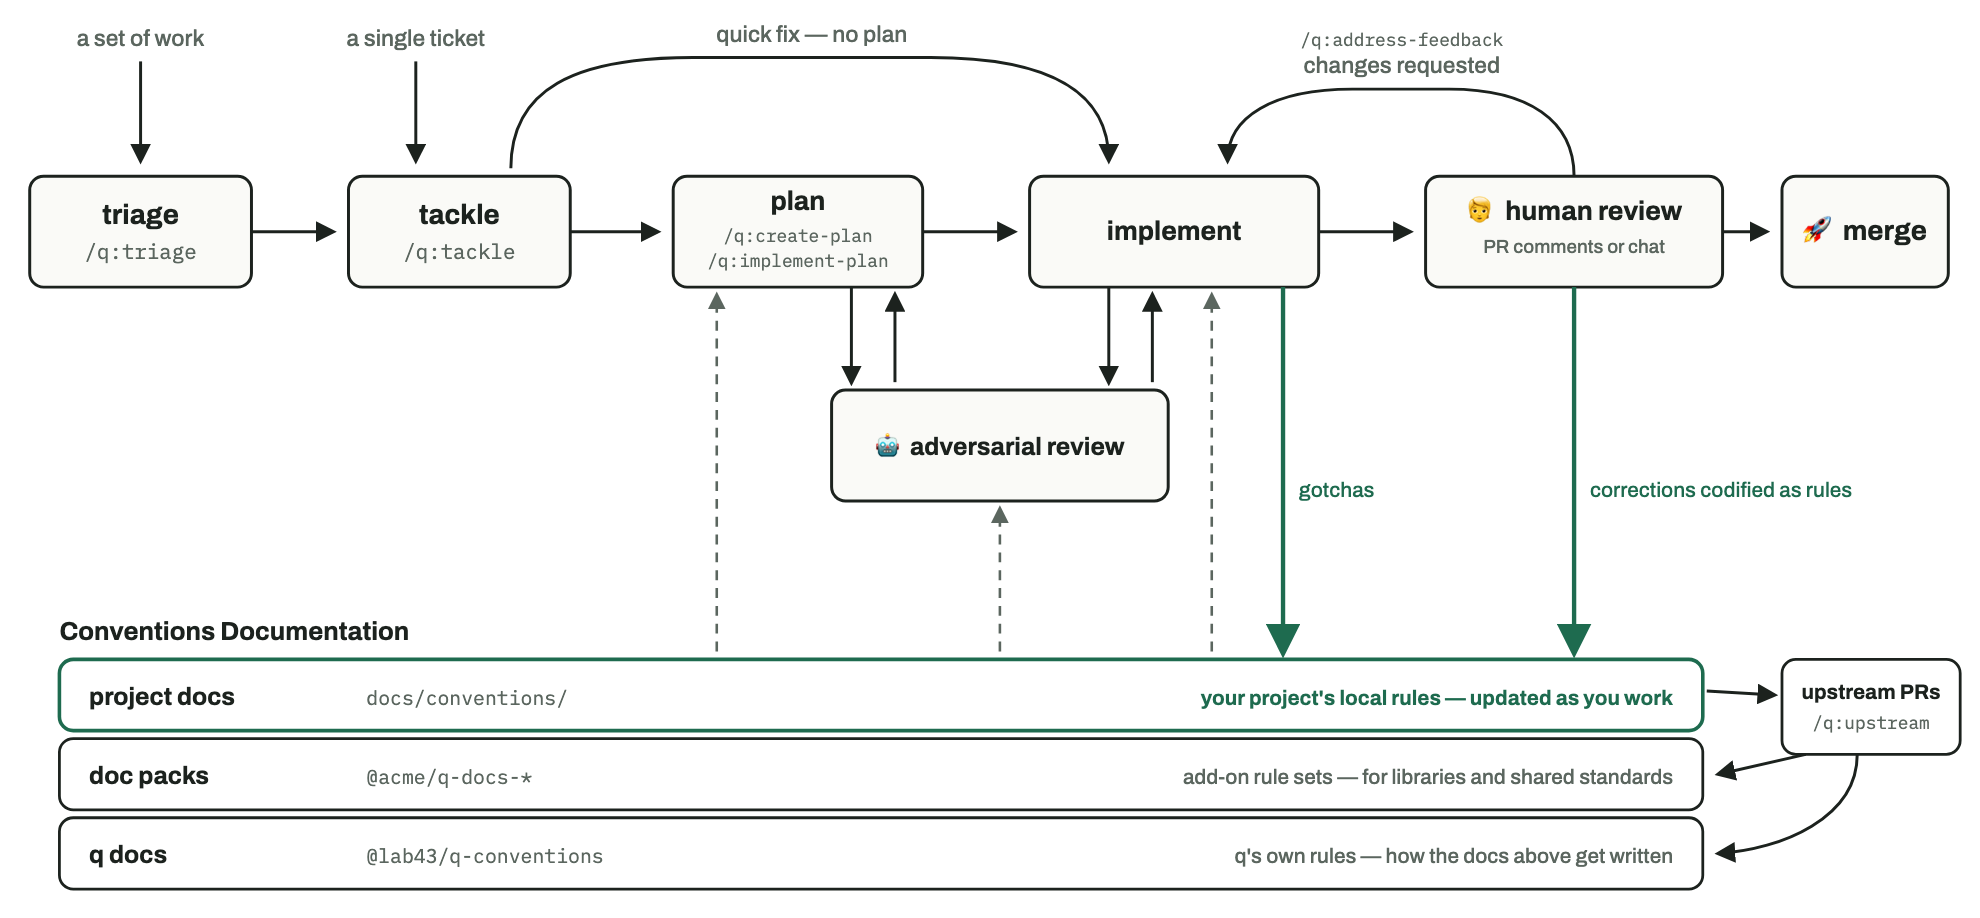
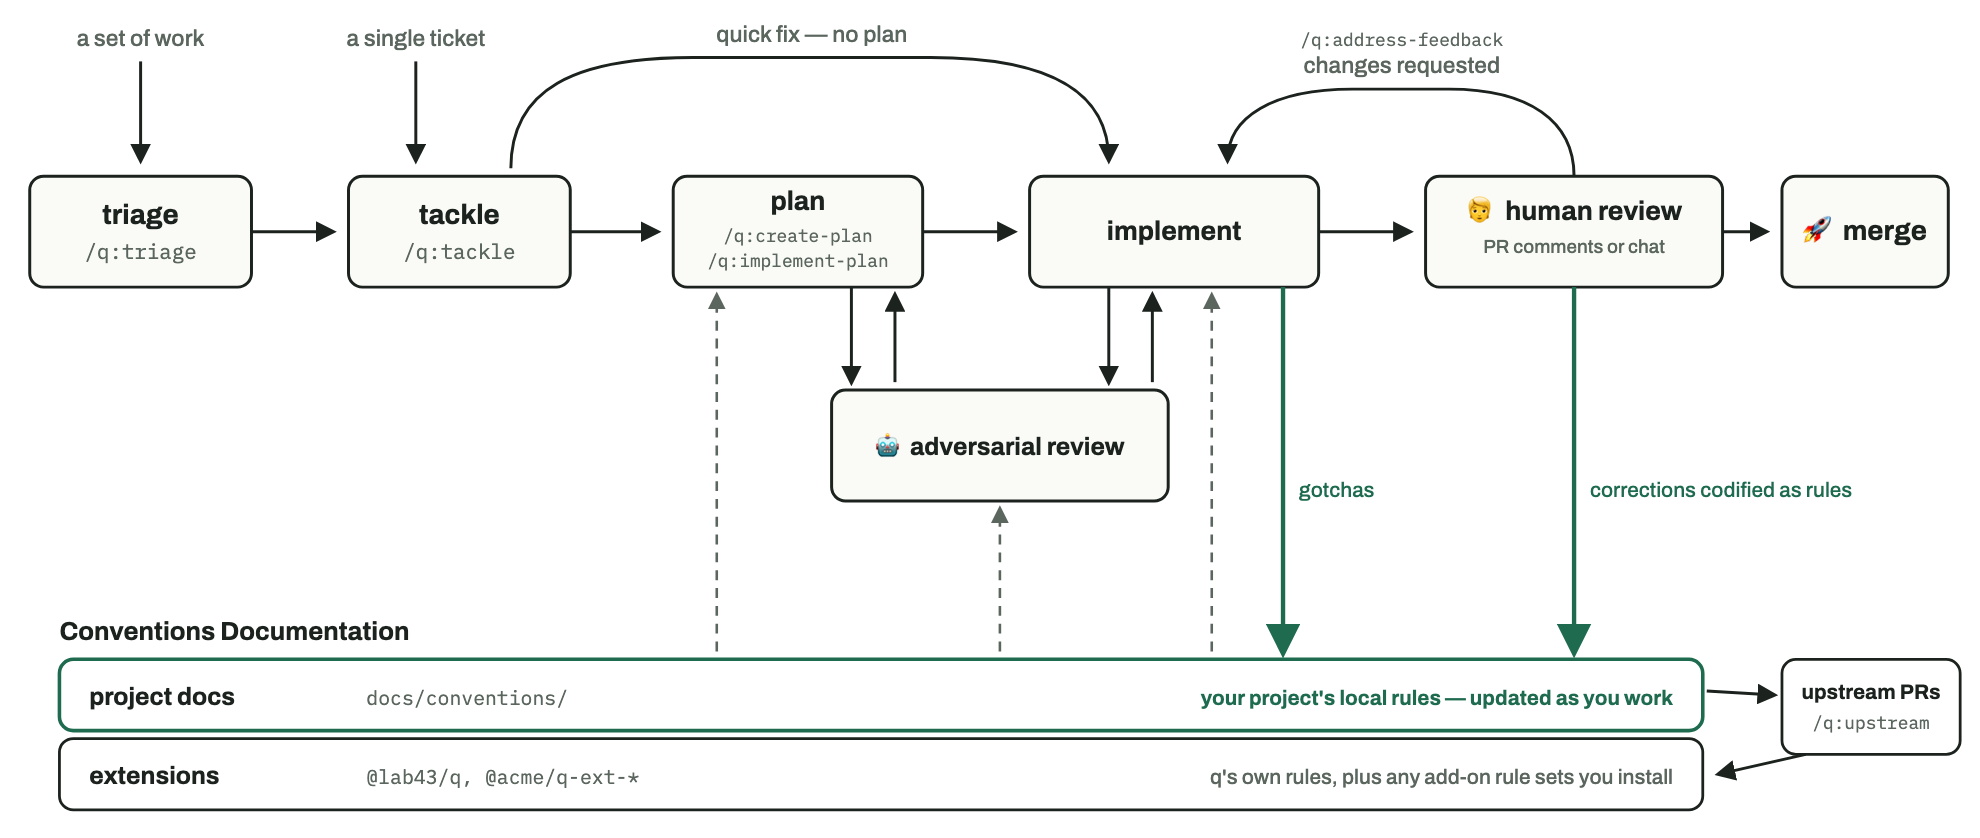
Retire pack terminology from this repo's own docs and the chart
The conventions stack loses a row: project docs over the installed
extensions, with q among them rather than beneath them. Both images
regenerated, and the README alt text redrawn to match.

releasing.md drops the plugin tag step. npm is the only channel now
that a project pins @lab43/q and loads the plugin from node_modules.

diff --git a/docs/workflow-chart/chart.html b/docs/workflow-chart/chart.html
@@ -86,7 +86,7 @@
 
   <figure>
     <div class="diagram-frame">
-      <svg viewBox="0 0 1000 462" role="img" aria-label="The q workflow: a spine of triage, tackle, plan, implement, human review, merge, with one adversarial review box under plan and implement, and human review looping back into implement until merge. Below, the conventions documentation is a tight vertical stack — project docs over doc packs over q docs — with an upstream PRs box receiving overrides from project docs and sending them to the doc-pack and q layers. Dashed edges show conventions being read from the top of the stack; green edges show gotchas and corrections written onto project docs.">
+      <svg viewBox="0 0 1000 422" role="img" aria-label="The q workflow: a spine of triage, tackle, plan, implement, human review, merge, with one adversarial review box under plan and implement, and human review looping back into implement until merge. Below, the conventions documentation is a tight vertical stack — project docs over the installed extensions — with an upstream PRs box receiving overrides from project docs and sending them down to the extensions. Dashed edges show conventions being read from the top of the stack; green edges show gotchas and corrections written onto project docs.">
         <defs>
           <marker id="ah" viewBox="0 0 10 10" refX="8" refY="5" markerWidth="7" markerHeight="7" orient="auto-start-reverse">
             <path d="M0,0 L10,5 L0,10 z" fill="var(--ink)"/>
@@ -187,14 +187,9 @@
           <text x="845" y="355" text-anchor="end" font-size="10.5" font-weight="700" fill="var(--accent-ink)">your project's local rules — updated as you work</text>
 
           <rect x="30" y="372" width="830" height="36" rx="7" fill="var(--surface)" stroke="var(--ink)" stroke-width="1.4"/>
-          <text x="45" y="395" font-size="12.5" font-weight="700" fill="var(--ink)">doc packs</text>
-          <text x="185" y="395" font-size="10" fill="var(--muted)" font-family="IBM Plex Mono, monospace">@acme/q-docs-*</text>
-          <text x="845" y="395" text-anchor="end" font-size="10.5" fill="var(--muted)">add-on rule sets — for libraries and shared standards</text>
-
-          <rect x="30" y="412" width="830" height="36" rx="7" fill="var(--surface)" stroke="var(--ink)" stroke-width="1.4"/>
-          <text x="45" y="435" font-size="12.5" font-weight="700" fill="var(--ink)">q docs</text>
-          <text x="185" y="435" font-size="10" fill="var(--muted)" font-family="IBM Plex Mono, monospace">@lab43/q-conventions</text>
-          <text x="845" y="435" text-anchor="end" font-size="10.5" fill="var(--muted)">q's own rules — how the docs above get written</text>
+          <text x="45" y="395" font-size="12.5" font-weight="700" fill="var(--ink)">extensions</text>
+          <text x="185" y="395" font-size="10" fill="var(--muted)" font-family="IBM Plex Mono, monospace">@lab43/q, @acme/q-ext-*</text>
+          <text x="845" y="395" text-anchor="end" font-size="10.5" fill="var(--muted)">q's own rules, plus any add-on rule sets you install</text>
         </g>
 
         <!-- upstream PRs box + flows -->
@@ -206,7 +201,6 @@
         <g stroke="var(--ink)" stroke-width="1.5" fill="none">
           <line x1="862" y1="348" x2="896" y2="350" marker-end="url(#ah)"/>
           <line x1="912" y1="380" x2="868" y2="390" marker-end="url(#ah)"/>
-          <path d="M 938 380 C 938 412, 900 428, 868 430" marker-end="url(#ah)"/>
         </g>
       </svg>
     </div>
@@ -219,7 +213,7 @@
     <li><strong>This page never ships.</strong> The chart gets screenshotted into q's README; the README's prose does the introducing. Everything a cold reader needs must live inside the SVG — nothing on this page around it. After editing, regenerate both README images with <code>docs/workflow-chart/screenshot.py</code>.</li>
     <li><strong>Arrow language</strong> (no legend, by choice): solid ink moves work; dashed reads the conventions; green writes them. Green is reserved for the rules circuit — the two write edges, project docs' border, and its tag line.</li>
     <li><strong>Boxes are stages; mono lines are skills.</strong> Implement carries no skill line because three routes serve it: <code>/q:implement-plan</code> (listed under plan), <code>/q:tackle</code>'s fix path, and <code>/q:address-feedback</code> (listed on the loop-back arc). Emojis mark the actor: 🤖 agent, 🧑 human, 🚀 shipped. That is why <code>/q:address-feedback</code> labels the arc instead of sitting under the 🧑 human review box it answers — a skill line inside a human box would misname the actor.</li>
-    <li><strong>All arrows touch the docs at project docs</strong>, the top row: writes land there literally; reads come off the top because precedence resolves top-down — project docs win on conflict, then doc packs, then q docs.</li>
+    <li><strong>All arrows touch the docs at project docs</strong>, the top row: writes land there literally; reads come off the top because precedence resolves top-down — project docs win on conflict, then the extensions'.</li>
     <li><strong>Doc rows have three columns:</strong> name · where it lives (mono) · what it's for.</li>
     <li><strong>Deliberate omissions:</strong> plan docs (working memory, frozen at merge — matters to skill authors, not the loop); read arrows into triage and tackle (conventions ground those stages too, but the downstream reads already carry the pattern and two more dashed arrows would clutter the left edge); any adversarial-review sub-labels (it covers plans, phases, the final branch, and review-loop fixes).</li>
     <li><strong>Label conventions:</strong> arc labels sit just above their arc's flat top with a consistent gap; the two green write labels share a baseline (y=250); arcs end in a genuinely vertical drop so arrowheads match their approach. The loop-back arc's skill line stacks above its prose label, since the arc occupies the space below.</li>

diff --git a/README.md b/README.md
@@ -49,7 +49,7 @@ That is the whole of it — q arrives as a pinned dependency, and the project's 
   <tr>
     <th rowspan="4" scope="rowgroup">Setup</th>
     <td><code>/q:install</code></td>
-    <td>Install q into a project, or add a doc pack to one. Idempotent, safe to re-run on a partially set-up project.</td>
+    <td>Install q into a project, or add an extension to one. Idempotent, safe to re-run on a partially set-up project.</td>
   </tr>
   <tr>
     <td><code>/q:sync</code></td>
@@ -57,11 +57,11 @@ That is the whole of it — q arrives as a pinned dependency, and the project's 
   </tr>
   <tr>
     <td><code>/q:update</code></td>
-    <td>Update q and the project's doc packs: move pins to the latest releases with your go-ahead, reconcile the project's docs with what each release changed, and catch up any pin that moved out of band.</td>
+    <td>Update the project's installed extensions, q among them: move pins to the latest releases with your go-ahead, reconcile the project's docs with what each release changed, and catch up any pin that moved out of band.</td>
   </tr>
   <tr>
     <td><code>/q:uninstall-extension</code></td>
-    <td>Remove a doc pack from a project, or reconcile a removal made out of band — the package, its briefing index lines, its watermark, and your ruling on each doc that references it.</td>
+    <td>Remove an extension from a project, or reconcile a removal made out of band — the package, its briefing index lines, its watermark, and your ruling on each doc that references it.</td>
   </tr>
   <tr>
     <th rowspan="8" scope="rowgroup">Workflow</th>
@@ -107,7 +107,7 @@ That is the whole of it — q arrives as a pinned dependency, and the project's 
   </tr>
   <tr>
     <td><code>/q:upstream</code></td>
-    <td>Turn session friction and recorded deviations into PRs against the repos that own the rules — the q framework's or a doc pack's.</td>
+    <td>Turn session friction and recorded deviations into PRs against the repos that own the rules — q's own, or another extension's.</td>
   </tr>
 </table>
 
@@ -118,7 +118,7 @@ That is the whole of it — q arrives as a pinned dependency, and the project's 
 <a href="docs/workflow-chart/light.png">
   <picture>
     <source media="(prefers-color-scheme: dark)" srcset="docs/workflow-chart/dark.png">
-    <img alt="The q workflow: work flows from triage and tackle through plan, implement, and human review to merge, with adversarial review gating plan and implement. Conventions documentation — project docs over doc packs over q docs — grounds each step; gotchas and corrections flow back down as rules on project docs, and rules that belong upstream leave as PRs." src="docs/workflow-chart/light.png">
+    <img alt="The q workflow: work flows from triage and tackle through plan, implement, and human review to merge, with adversarial review gating plan and implement. Conventions documentation — project docs over the installed extensions — grounds each step; gotchas and corrections flow back down as rules on project docs, and rules that belong upstream leave as PRs." src="docs/workflow-chart/light.png">
   </picture>
 </a>
 

diff --git a/docs/conventions/documentation.md b/docs/conventions/documentation.md
@@ -6,7 +6,7 @@ Rules for writing q's docs — the framework payload and this repo's own.
 
 Every rule written in this repo goes to one of two homes:
 
-- **Framework payload** — `conventions/` plus everything the plugin routes consumer sessions to: skills, hooks, agents, and the references they read. A rule lands here when it would bind a consuming project: how their docs work, principles their sessions follow. The test: would this change what a session in *someone else's* repo writes or flags?
+- **Framework payload** — everything the `@lab43/q` package ships: `conventions/`, plus the skills, hooks, agents and references its `files` whitelist carries. A rule lands here when it would bind a consuming project: how their docs work, principles their sessions follow. The test: would this change what a session in *someone else's* repo writes or flags?
 - **`docs/conventions/` (this project's tier)** — a rule about developing q itself: its skills, its README, its repo mechanics. Consumers are never bound by these and never routed to them.
 
 **Payload is addressed solely to consumers.** Payload docs never mention q's own repo, development practices, or internal layout; even acknowledging that they might be read from within q muddies them for the audience they speak to. (A skill whose *subject* is the q repo — `/q:upstream` PRs against it — names the repo as its target; that is not mentioning it as "here".) q still follows the payload (it is a consuming project of its own workflow).
@@ -15,7 +15,7 @@ Rejected: shipping the framework conventions at the contract path (`docs/convent
 
 ## Working on the payload
 
-The payload's conventions are the doc pack this repo authors, so the framework's authoring rules govern them here (source: q conventions/extensions.md): they join this repo's documentation surface — editable, groomable, held to the documentation policy like any project's own docs — and a workflow-general lesson is edited directly into the framework doc it refines; there is no deviation to record or upstream to flag from inside the authoring repo. In this repo the `q` alias resolves to the repo root, the pack's working tree (source: q conventions/documentation.md, Extension doc paths).
+This repo authors the `@lab43/q` extension, so the authoring rules govern its payload here (source: q conventions/extensions.md). The payload joins this repo's documentation surface — editable, groomable, held to the documentation policy like any project's own docs. A workflow-general lesson is edited directly into the doc it refines. There is no deviation to record and no upstream to flag from inside the authoring repo. In this repo the `q` alias resolves to the repo root, the extension's working tree (source: q conventions/documentation.md, Extension doc paths).
 
 Rejected: seeding the framework tier into consuming projects as editable copies (seed-and-fork) — that loses the update channel and makes framework law indistinguishable from project choice during grooming.
 

diff --git a/docs/conventions/skills.md b/docs/conventions/skills.md
@@ -42,6 +42,6 @@ Reference a policy doc whole — never with a parenthetical list of its sections
 
 Framework docs are read from the consuming project's `node_modules/@lab43/q/conventions/` — a stable project-relative path. Plugin-internal files (the manifest, hooks) are referenced via `${CLAUDE_PLUGIN_ROOT}` — the plugin installs at a different path on every machine, so a literal path breaks everywhere but this checkout.
 
-Instructions shared across skills may be duplicated in each body or extracted into `references/` at the plugin root, referenced via `${CLAUDE_PLUGIN_ROOT}/references/`. Between skill bodies, duplication is the default — inline text reads in flow, while a reference turns a step into a lookup; extraction earns that lookup when the copies are long, keep drifting apart, or the sharers multiply. An instruction another doc already owns — a pack doc's, a reference doc's — is the exception: it enters a skill body or a reference doc as a reference, or as a restatement carrying its source marker, never an unmarked copy (source: q conventions/documentation.md, Single source of truth). Reference files are on-demand context for skill runs — never conventions law, never indexed in any briefing; a rule that should bind consumer sessions outside a skill belongs in the pack instead.
+Instructions shared across skills may be duplicated in each body or extracted into `references/` at the plugin root, referenced via `${CLAUDE_PLUGIN_ROOT}/references/`. Between skill bodies, duplication is the default — inline text reads in flow, while a reference turns a step into a lookup; extraction earns that lookup when the copies are long, keep drifting apart, or the sharers multiply. An instruction another doc already owns — a conventions doc's, a reference doc's — is the exception: it enters a skill body or a reference doc as a reference, or as a restatement carrying its source marker, never an unmarked copy (source: q conventions/documentation.md, Single source of truth). Reference files are on-demand context for skill runs — never conventions law, never indexed in any briefing; a rule that should bind consumer sessions outside a skill belongs in `conventions/` instead.
 
 A step that launches one of the project's defined agents passes what that agent's description names as its inputs, and nothing beyond them. The description is the caller's side of the contract. Omitting a named input is a defect. So is adding to them. Skill text runs on every invocation, so a hunt-list, a checklist, or an account of what changed shapes every review that step will ever launch. A step that fans out ad-hoc subagents carries no such contract — the prompt is their only instructions.

diff --git a/docs/guides/releasing.md b/docs/guides/releasing.md
@@ -2,13 +2,12 @@
 
 How q is versioned and released. Releasing is separate from merging and is the maintainer's act: PRs never touch a `version` field, and an agent driving a release confirms the scope — what ships, at which version level — with the user before running any step here.
 
-q has one version. Two manifests carry it — `package.json` and `.claude-plugin/plugin.json` — and `npm run check-versions` holds them equal. Every release moves both and ships both channels: the npm package, and the git tag a project's plugin marketplace resolves against.
+q has one version. Two manifests carry it — `package.json` and `.claude-plugin/plugin.json` — and `npm run check-versions` holds them equal. npm is the only channel: a project pins `@lab43/q` in its `package.json` and loads the plugin from `node_modules`.
 
 ## Steps
 
 1. On main, bump `version` in `package.json` and `.claude-plugin/plugin.json`. Run `npm run check-versions`, then commit.
 2. From the repo root, run `npm publish`. Its `publishConfig` pins the destination to the public npm registry with public access, so no flags are needed — but the logged-in account must own the `@lab43` scope; check with `npm whoami --registry https://registry.npmjs.org`.
-3. `claude plugin tag --push` — this pushes the `q--v{version}` tag that project pins and `/q:update` resolve against.
 
 ## Choosing the version
 

diff --git a/CLAUDE.md b/CLAUDE.md
@@ -22,7 +22,7 @@ q's rules live in this repo's documentation. Those rules are conventions: bindin
 
 Before writing code, before design decisions and reviews, and before changing docs, check both tiers of conventions (see: Two tiers). All doc changes — the README and this briefing itself included — go through `/q:update-docs`.
 
-In path references, `q` abbreviates the `@lab43/q` pack (source: q conventions/documentation.md, Extension doc paths) — here resolving to the repo root, the pack's working tree (source: docs/conventions/documentation.md, Working on the payload).
+In path references, `q` abbreviates `@lab43/q` (source: q conventions/documentation.md, Extension doc paths) — here resolving to the repo root, the extension's working tree (source: docs/conventions/documentation.md, Working on the payload).
 
 Framework payload (ships to consumers):
 
